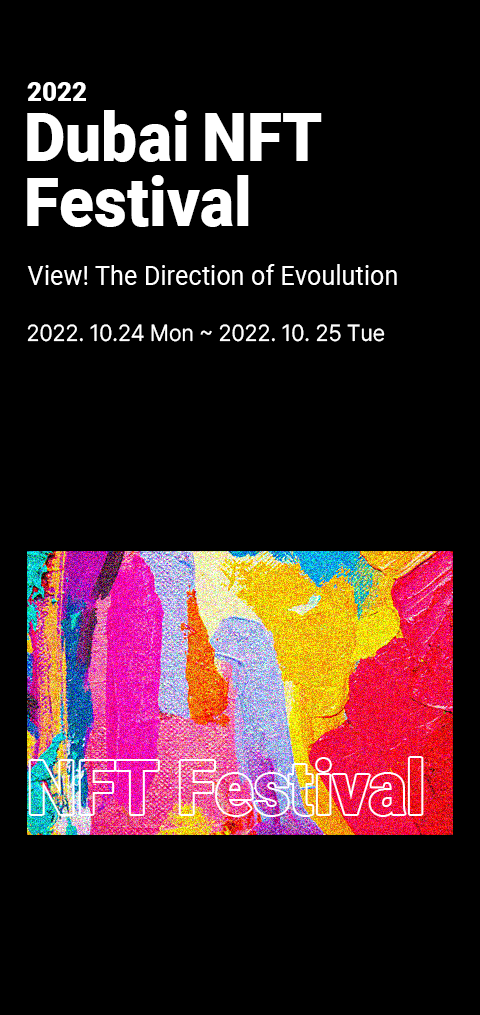
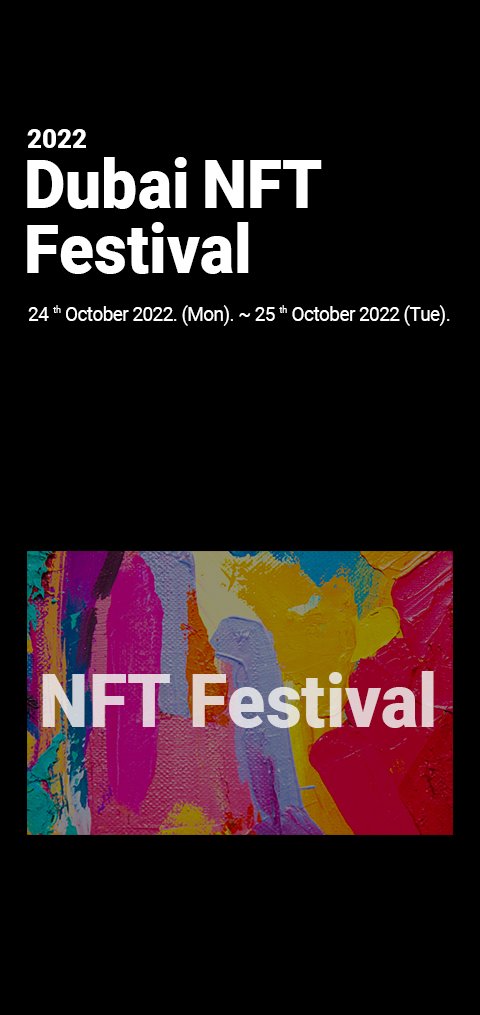
dnf 이미지변경

diff --git a/style.css b/style.css
@@ -111,7 +111,7 @@ section {
 .main .inner .btnBox {
   box-sizing: border-box;
   position: absolute;
-  top: 820px;
+  top: 680px;
   left: 237px;
 }
 .main .inner .btnBox button {
@@ -586,12 +586,12 @@ section.main-m .btnBox{
   justify-content: start;
   position: absolute;
   width: 100%;
-  top: 42vh ;
+  top: 48vh ;
   left: 4vw;
 }
 section.main-m .btnBox button {
-  width: 35.71vw;
-  height: 12.61vw ;
+  width: 32vw;
+  height: 10vw ;
   border-radius: 6.30vw ;
   border: 1px solid #fff;
   color: #fff;
